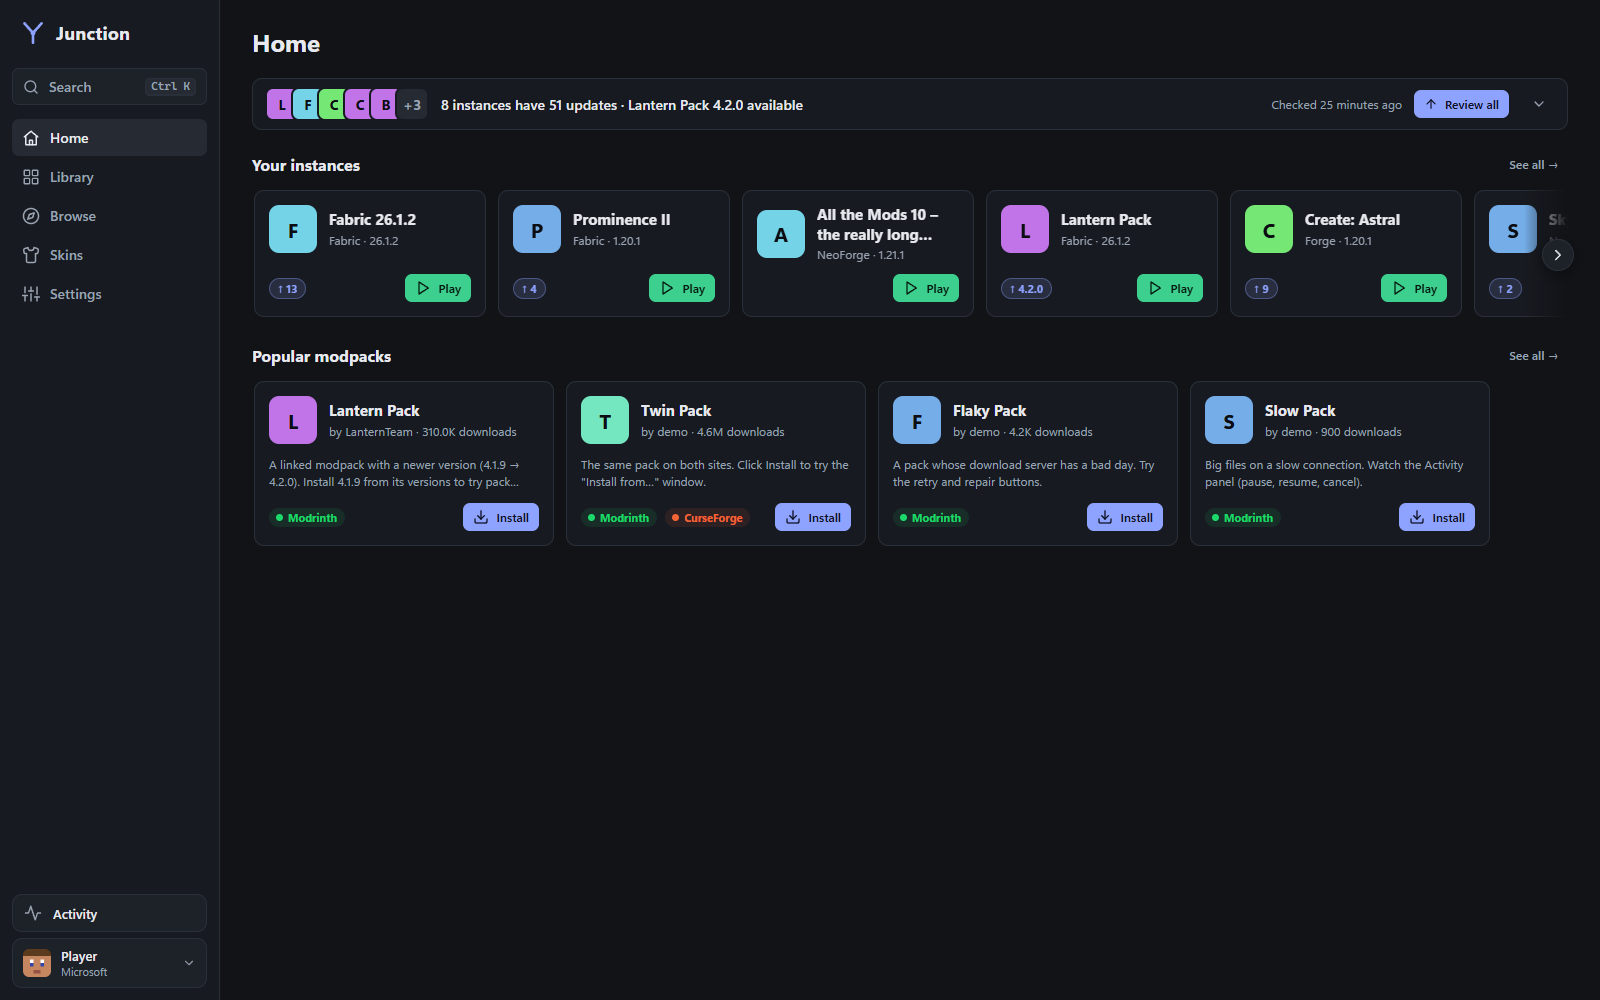
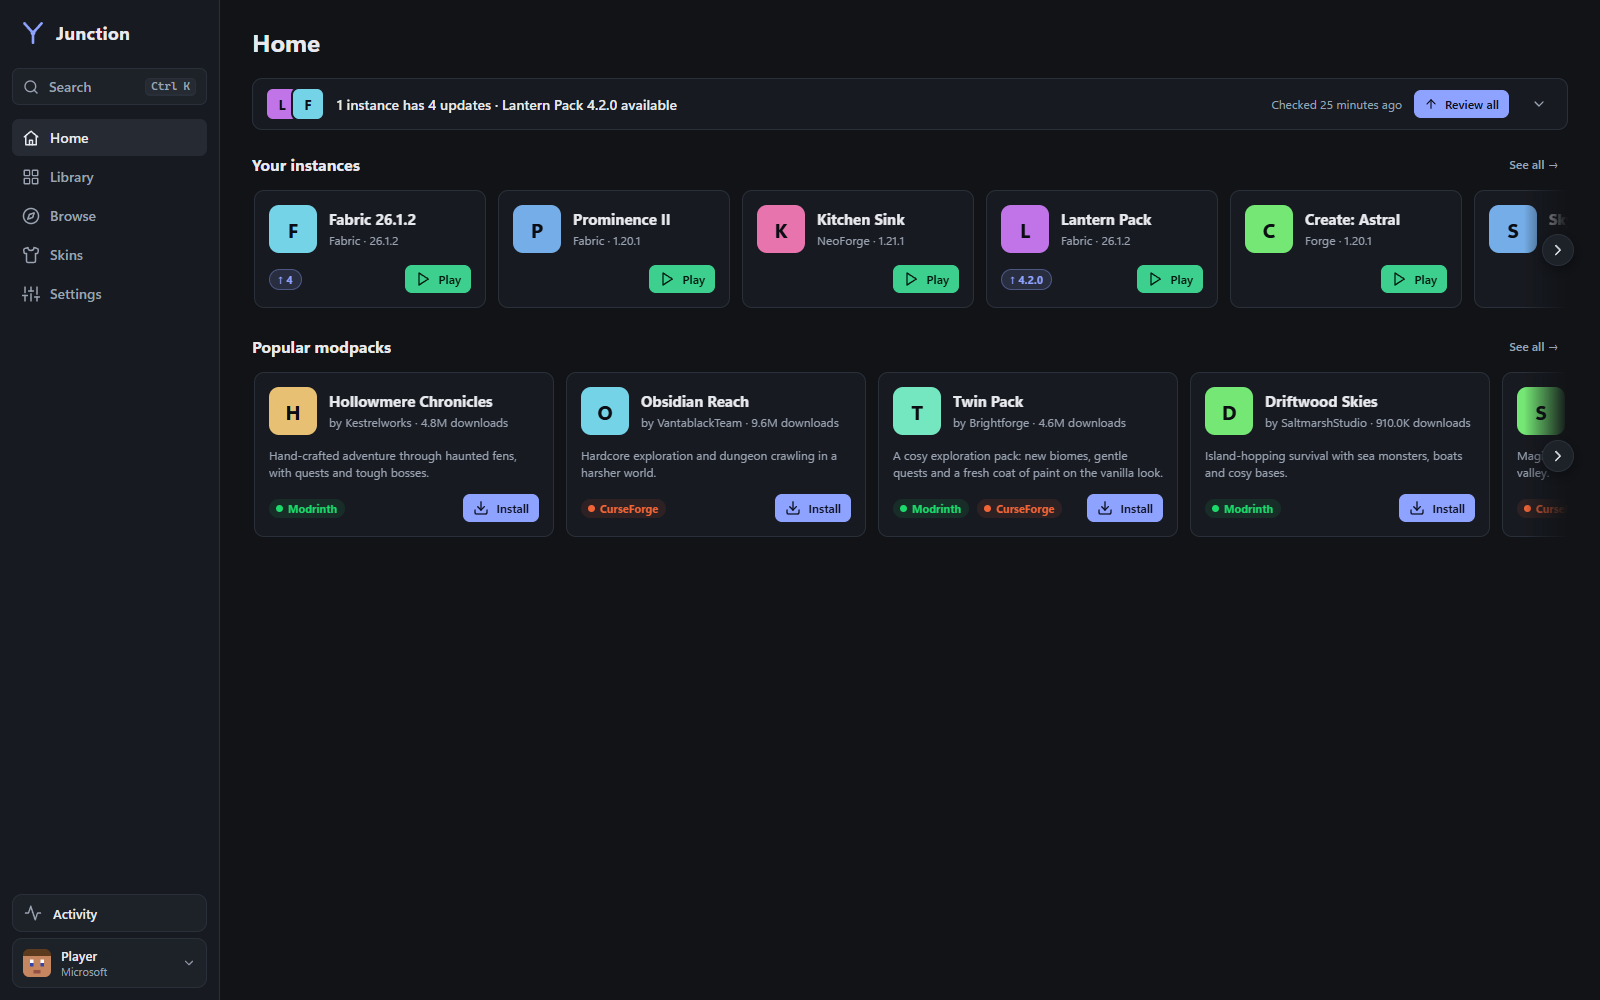
Use realistic demo data for README screenshots
- Screenshot-only demo profile (seed-shots.js, shots-network.js),
  so the test fixtures are unchanged
- Review all shows newer release versions with "Releases only"
- Popular modpacks and instance names look like real use
- Update badges match what the demo network offers, so Home and
  Quick search agree
- Re-captured the screenshots

diff --git a/tools/shots-network.js b/tools/shots-network.js
@@ -1,0 +1,98 @@
+'use strict';
+// The simulated network for the README screenshots only (tools/screenshots.js). It sits in front of tools/mock-network.js,
+// which stays as it is for the tests, ui-check and offline UI work, and changes just what the pictures show:
+//   - every mod in the update review gets a believable newer version (not a lower one), mostly releases, one beta;
+//   - Home's popular modpacks are made-up packs with real-looking authors and one-line pitches; one is on both sites;
+//   - the demo author on "Twin Pack" gets a proper name and pitch.
+// Needs JUNCTION_SHOTS_HASHES: the sha1 -> Modrinth project id file that tools/seed-shots.js writes.
+const fs = require('fs');
+const base = require('./mock-network');
+
+const json = (o) => new Response(JSON.stringify(o), { headers: { 'content-type': 'application/json' } });
+const daysAgo = (d) => new Date(Date.now() - d * 864e5).toISOString();
+
+// ---- update review: versions newer than anything the demo instances have installed, newest first. [number, type, days ago]
+const NEWER = {
+  AANobbMI: ['sodium', [['0.7.2', 'release', 3]]],
+  gvQqBUqZ: ['lithium', [['0.15.1', 'release', 5]]],
+  YL57xq9U: ['iris', [['1.9.1', 'release', 4]]],
+  uCdwusMi: ['distanthorizons', [['2.3.3-beta.1', 'beta', 1], ['2.3.2', 'release', 6], ['2.3.1', 'release', 19]]],
+  OLDTW: ['oldtweaks', [['2.3', 'release', 12]]],
+  ZOOMR: ['zoomify', [['2.14.1', 'release', 9]]],
+};
+const versionsOf = (pid) => NEWER[pid][1].map(([num, type, d]) => ({
+  id: `${pid}-${num}`, project_id: pid, name: num, version_number: num, game_versions: ['26.1.2'], loaders: ['fabric'], version_type: type,
+  date_published: daysAgo(d), dependencies: [],
+  files: [{ url: `https://cdn.modrinth.com/data/${pid}/versions/${num}/${NEWER[pid][0]}-${num}.jar`, filename: `${NEWER[pid][0]}-${num}.jar`, hashes: { sha1: `newer-${pid}-${num}` }, size: 900000, primary: true }],
+}));
+const newestRelease = (pid) => versionsOf(pid).find((v) => v.version_type === 'release');
+
+let hashMap = null;
+const projectOfHash = (h) => {
+  if (!hashMap) { try { hashMap = JSON.parse(fs.readFileSync(process.env.JUNCTION_SHOTS_HASHES, 'utf8')); } catch { hashMap = {}; } }
+  return hashMap[h];
+};
+
+// ---- Home: popular modpacks (Modrinth and CurseForge lists, sorted by downloads; "Twin Pack" is on both)
+const TWIN = { author: 'Brightforge', pitch: 'A cosy exploration pack: new biomes, gentle quests and a fresh coat of paint on the vanilla look.' };
+const mrPack = (id, slug, title, author, desc, dl, cats) => ({
+  project_id: id, slug, title, author, description: desc, downloads: dl, follows: Math.round(dl / 300), icon_url: null,
+  date_modified: daysAgo(4), project_type: 'modpack', display_categories: cats, versions: ['26.1.2'],
+});
+const cfPack = (id, slug, name, author, summary, dl, cats) => ({
+  id, slug, name, summary, authors: [{ name: author }], downloadCount: dl, classId: 4471, dateModified: daysAgo(6),
+  links: { websiteUrl: `https://www.curseforge.com/minecraft/modpacks/${slug}` }, categories: cats.map((n) => ({ name: n })),
+  latestFilesIndexes: [{ gameVersion: '26.1.2', fileId: id, modLoader: 4 }],
+});
+const POPULAR_MR = [
+  mrPack('HOLLOW', 'hollowmere-chronicles', 'Hollowmere Chronicles', 'Kestrelworks', 'Hand-crafted adventure through haunted fens, with quests and tough bosses.', 4800000, ['adventure']),
+  mrPack('TWIN', 'twin-pack', 'Twin Pack', TWIN.author, TWIN.pitch, 1200000, ['adventure']),
+  mrPack('DRIFT', 'driftwood-skies', 'Driftwood Skies', 'SaltmarshStudio', 'Island-hopping survival with sea monsters, boats and cosy bases.', 910000, ['adventure', 'survival']),
+  mrPack('QUILL', 'quarry-and-quill', 'Quarry & Quill', 'tinkerlily', 'Light tech and farming for relaxed, long-running worlds.', 640000, ['technology']),
+  mrPack('COPPER', 'copperleaf-plus', 'Copperleaf Vanilla+', 'mossbyte', 'Vanilla, only better: a handful of polish mods and nothing more.', 330000, ['lightweight']),
+];
+const POPULAR_CF = [
+  cfPack(880001, 'obsidian-reach', 'Obsidian Reach', 'VantablackTeam', 'Hardcore exploration and dungeon crawling in a harsher world.', 9600000, ['Adventure and RPG']),
+  { ...cfPack(777001, 'twin-pack', 'Twin Pack', TWIN.author, TWIN.pitch, 3400000, ['Adventure and RPG']), latestFilesIndexes: [{ gameVersion: '26.2', fileId: 5, modLoader: 6 }] },
+  cfPack(880003, 'stargazers-vale', "Stargazer's Vale", 'luna_fox', 'Magic, astronomy and relaxed building in a starlit valley.', 1900000, ['Magic']),
+  cfPack(880004, 'gearhaven', 'Gearhaven', 'cogsmith', 'A big tech tree with factories, trains and automation.', 780000, ['Tech']),
+];
+
+/** Search text from a URL (or none) against a title, like a real search box would. */
+const matches = (title, q) => !q || title.toLowerCase().includes(decodeURIComponent(q).replace(/\+/g, ' ').toLowerCase());
+
+/** The same response with the demo author and pitch of "Twin Pack" replaced. */
+async function retouched(res) {
+  const text = (await res.text())
+    .split('"author":"demo"').join(`"author":"${TWIN.author}"`)
+    .split('"name":"demo"').join(`"name":"${TWIN.author}"`)
+    .split('The same pack on both sites. Click Install to try the \\"Install from…\\" window.').join(TWIN.pitch)
+    .split('The same pack on both sites.').join(TWIN.pitch);
+  return new Response(text, { status: res.status, headers: { 'content-type': 'application/json' } });
+}
+
+module.exports = async (url, opts = {}) => {
+  // Update review: the newest release for every file we know, and the list of newer versions behind each dropdown.
+  if (url.endsWith('/v2/version_files/update') && opts.body) {
+    const out = {};
+    for (const hash of JSON.parse(opts.body).hashes) {
+      const pid = projectOfHash(hash);
+      if (pid && NEWER[pid]) out[hash] = newestRelease(pid);
+    }
+    return json(out);
+  }
+  const pv = url.match(/^https:\/\/api\.modrinth\.com\/v2\/project\/([^/?]+)\/version/);
+  if (pv && NEWER[decodeURIComponent(pv[1])]) return json(versionsOf(decodeURIComponent(pv[1])));
+
+  // Modpack lists: Home's popular row has no search text; Browse's "twin" search keeps the mock's answer, retouched.
+  if (url.startsWith('https://api.modrinth.com/v2/search') && url.includes('project_type%3Amodpack')) {
+    const hits = POPULAR_MR.filter((p) => matches(p.title, url.match(/[?&]query=([^&]*)/)?.[1]));
+    return json({ total_hits: hits.length, hits });
+  }
+  if (url.startsWith('https://api.curseforge.com/v1/mods/search') && url.includes('classId=4471')) {
+    const data = POPULAR_CF.filter((p) => matches(p.name, url.match(/[?&]searchFilter=([^&]*)/)?.[1]));
+    return json({ pagination: { totalCount: data.length }, data });
+  }
+  if (/api\.modrinth\.com\/v2\/project\/TWIN$|api\.curseforge\.com\/v1\/mods\/777001(\/description)?$/.test(url)) return retouched(await base(url, opts));
+  return base(url, opts);
+};

diff --git a/tools/seed-shots.js b/tools/seed-shots.js
@@ -1,0 +1,41 @@
+'use strict';
+// The demo data for the README screenshots (tools/screenshots.js). It is tools/seed-home.js plus a few touches so the
+// pictures look like real use. The test fixtures (seed-demo, seed-home, mock-network) stay as they are.
+//   node tools/seed-shots.js <data folder> <hash map file>
+//
+// - two instances get ordinary names;
+// - the update channel is "Releases only", so the review window's "Default to the newest of" says so;
+// - <hash map file> tells tools/shots-network.js which mod each downloaded file is (sha1 -> project id), so the
+//   simulated Modrinth can offer each one a newer version.
+const fs = require('fs');
+const path = require('path');
+const { execFileSync } = require('child_process');
+const { createContext } = require('../src/core/context');
+const { Instances } = require('../src/core/instances');
+
+const RENAMES = { 'Fabric 26.1.2 test': 'Creative Builds', 'All the Mods 10 – the really long named expedition pack': 'Kitchen Sink' };
+
+(async () => {
+  const dir = path.resolve(process.argv[2] || 'demo-shots-data');
+  const mapFile = path.resolve(process.argv[3] || path.join(dir, 'shots-hashes.json'));
+  execFileSync(process.execPath, [path.join(__dirname, 'seed-home.js'), dir], { stdio: 'ignore' });
+  const ctx = await createContext(dir);
+  const instances = new Instances(ctx);
+  await ctx.settings.update({ updateChannel: 'release' });
+  const map = {};
+  for (const inst of await instances.list()) {
+    if (RENAMES[inst.name]) await instances.update(inst.id, { name: RENAMES[inst.name] });
+    for (const t of ['mod', 'resourcepack', 'shader']) await instances.listContent(inst.id, t); // hashes every file into content.json
+    const idx = await instances.readIndex(inst.id);
+    for (const e of Object.values(idx.files)) if (e.sha1 && e.source === 'modrinth') map[e.sha1] = String(e.projectId);
+  }
+  fs.writeFileSync(mapFile, JSON.stringify(map));
+  // Home's cached update counts: only what the simulated Modrinth really offers (the 4 mods of "Fabric 26.1.2") plus
+  // Lantern Pack's pack update, so Home, Library and the review window all agree.
+  const homeFile = path.join(ctx.paths.cache, 'home.json');
+  const cache = JSON.parse(fs.readFileSync(homeFile, 'utf8'));
+  const fabric = (await instances.list()).find((i) => i.name === 'Fabric 26.1.2');
+  cache.updates.byInstance = { [fabric.id]: 4 };
+  fs.writeFileSync(homeFile, JSON.stringify(cache));
+  console.log(`Screenshot data in ${dir}`);
+})();

diff --git a/tools/screenshots.js b/tools/screenshots.js
@@ -5,7 +5,7 @@
 //   npm run screenshots -- home skins # only these
 //
 // It starts the app from source (electron .) once per picture, against a throwaway data folder with demo data and the
-// simulated network (tools/seed-home.js + tools/mock-network.js), and uses the app's own JUNCTION_SCREENSHOT hook, which
+// simulated network (tools/seed-shots.js + tools/shots-network.js, which build on the test fixtures without changing them), and uses the app's own JUNCTION_SCREENSHOT hook, which
 // saves webContents.capturePage(). Nothing real can show up in the pictures:
 //   - the data folder is generated, the account is called "Player" and nothing talks to the internet;
 //   - while capturing, local paths (data folder, temp folder, home folder, user name) are replaced on screen;
@@ -132,7 +132,8 @@ function runElectron({ env, userData, label }) {
   const data = path.join(tmp, 'data');
   const userData = path.join(tmp, 'ud');
   console.log('Making demo data…');
-  execFileSync(process.execPath, [path.join(__dirname, 'seed-home.js'), data], { stdio: 'ignore' });
+  const hashes = path.join(tmp, 'shots-hashes.json');
+  execFileSync(process.execPath, [path.join(__dirname, 'seed-shots.js'), data, hashes], { stdio: 'ignore' });
   // The signed-in account is called "Player" in every picture.
   const accFile = path.join(data, 'accounts.json');
   const acc = JSON.parse(fs.readFileSync(accFile, 'utf8'));
@@ -140,7 +141,7 @@ function runElectron({ env, userData, label }) {
   fs.writeFileSync(accFile, JSON.stringify(acc));
 
   fs.mkdirSync(outDir, { recursive: true });
-  const env = { ...process.env, JUNCTION_DATA: data, JUNCTION_FETCH_MOCK: path.join(__dirname, 'mock-network.js') };
+  const env = { ...process.env, JUNCTION_DATA: data, JUNCTION_FETCH_MOCK: path.join(__dirname, 'shots-network.js'), JUNCTION_SHOTS_HASHES: hashes };
   delete env.ELECTRON_RUN_AS_NODE;
   for (const k of Object.keys(env)) if (/^JUNCTION_(MS_CLIENT_ID|CF_API_KEY)$|TOKEN|SECRET|PASSWORD|API_KEY/i.test(k)) delete env[k];
   const home = os.homedir();
